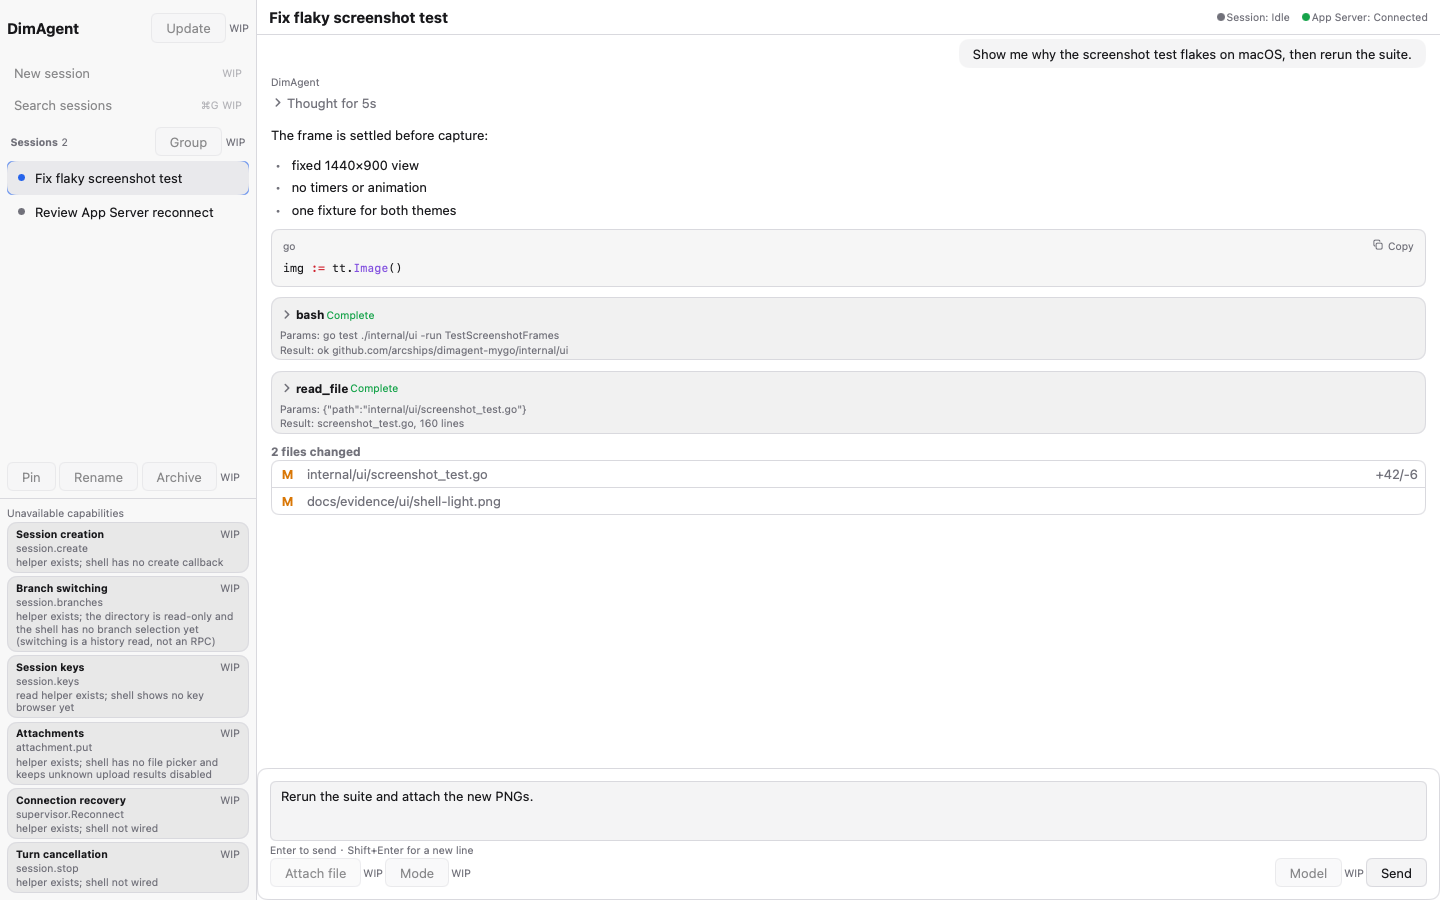
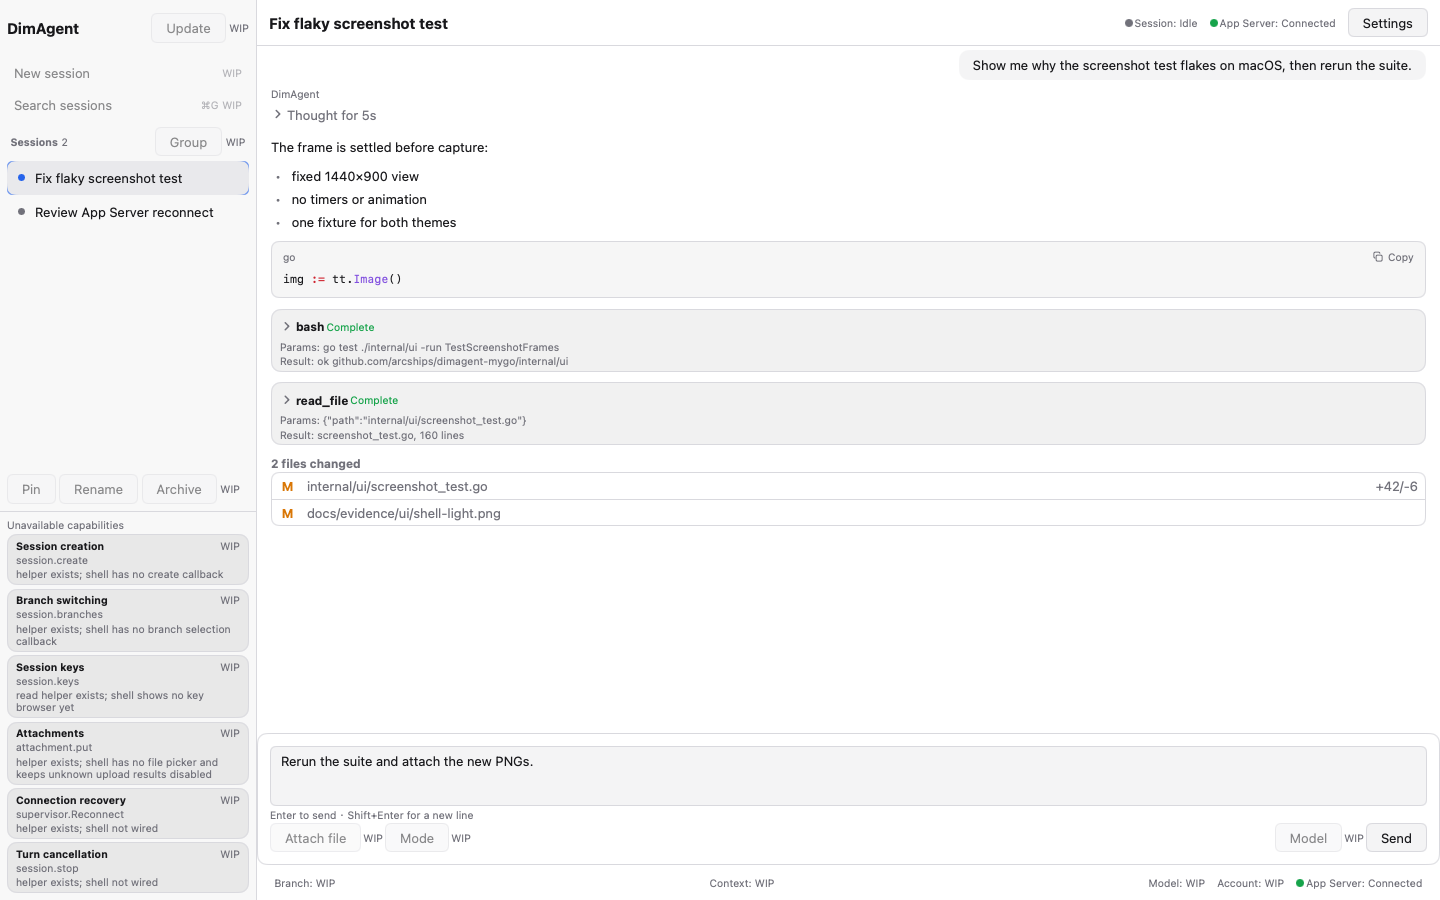
feat(ui): wire branch selection, settings and status bar

diff --git a/internal/ui/shell.go b/internal/ui/shell.go
@@ -260,12 +260,28 @@ type State struct {
 	// here. It lives as long as the window; a fold left behind by a row that left
 	// the timeline stays as one unused entry and is never re-keyed.
 	folds blockFolds
+	// ShowSettings is the window's own record that the appearance surface is
+	// showing instead of the conversation. It is display state only.
+	ShowSettings bool
+	// Settings holds the desktop-local appearance preferences the surface
+	// reports. They are the desktop's, not a session's: nothing here is sent to
+	// the App Server or stored as a session fact.
+	Settings SettingsView
 }
 
 // View builds one frame of the AppFrame: sidebar, toolbar, banner, conversation
 // and composer. It only assembles each region's view and the Actions, then
 // calls the region's render entry; it draws no region itself.
 func (s *State) View(c *ui.Context) {
+	// The appearance preference forces a theme when it is light or dark; system
+	// leaves the window's own appearance alone. The tokens are then read from the
+	// theme in force, so a forced theme carries through every region.
+	switch s.Settings.Theme {
+	case ThemeLight:
+		c.SetTheme(ui.LightTheme())
+	case ThemeDark:
+		c.SetTheme(ui.DarkTheme())
+	}
 	k := newTokens(c.Theme())
 	// The divider writes the width it drags to; the shell keeps the sidebar
 	// inside its own bounds before every frame, so a drag can never take the
@@ -278,20 +294,56 @@ func (s *State) View(c *ui.Context) {
 	}, func() {
 		ui.Column(c).FillHeight().Children(func() {
 			renderHeader(c, k, s.headerView(), a)
-			renderTimeline(c, k, s.timelineView(), a)
-			// A pending approval takes the composer's slot: the user answers the
-			// request before typing again, as the spec's composer replacement does.
-			// The request set comes from the rows the projection produced, never from
-			// a click.
-			if pending := s.pendingApprovals(); len(pending) > 0 {
-				renderApprovalPanel(c, k, ApprovalView{Pending: pending}, a)
+			if s.ShowSettings {
+				// The appearance surface takes the conversation's place; the
+				// sidebar, toolbar and status bar stay, so a preference change is
+				// visible around it.
+				renderSettings(c, k, s.Settings, s.applySettings)
 			} else {
-				renderComposer(c, k, composer, a)
+				renderTimeline(c, k, s.timelineView(), a)
+				// A pending approval takes the composer's slot: the user answers the
+				// request before typing again, as the spec's composer replacement does.
+				// The request set comes from the rows the projection produced, never from
+				// a click.
+				if pending := s.pendingApprovals(); len(pending) > 0 {
+					renderApprovalPanel(c, k, ApprovalView{Pending: pending}, a)
+				} else {
+					renderComposer(c, k, composer, a)
+				}
 			}
+			renderStatusBar(c, k, s.statusBarView())
 		})
 	}).SplitReset(k.sidebarW).Fill()
 	if c.Shortcut(ComposerShortcutMods, ComposerShortcutKey) {
 		composer.Focus.Focus()
+	}
+}
+
+// applySettings stores the appearance snapshot the surface reported and applies
+// the parts this shell can: the forced theme (read on the next frame) and the
+// sidebar width. Font size, family, density and code size are kept for the
+// caller to persist; the shell does not yet re-theme its type scale from them.
+func (s *State) applySettings(change SettingsChange) {
+	s.Settings = SettingsView{
+		Theme:        change.Theme,
+		FontSize:     change.FontSize,
+		FontFamily:   change.FontFamily,
+		SidebarWidth: change.SidebarWidth,
+		Density:      change.Density,
+		CodeFontSize: change.CodeFontSize,
+	}
+	if change.SidebarWidth > 0 {
+		s.SidebarWidth = change.SidebarWidth
+	}
+}
+
+// statusBarView copies the readings the bottom bar shows. Only the branch name
+// and the connection are known today; context usage, model and account stay
+// empty, which the bar draws as WIP instead of inventing numbers.
+func (s *State) statusBarView() StatusBarView {
+	return StatusBarView{
+		Branch:     s.SelectedBranch,
+		Connection: s.Connection,
 	}
 }
 
@@ -306,6 +358,9 @@ func (s *State) actions() Actions {
 		OnStop:          s.OnStop,
 		OnReconnect:     s.OnReconnect,
 		OnApproval:      s.OnApproval,
+		// The settings toggle is the shell's own state, not a caller callback, so
+		// it is always wired.
+		OnOpenSettings: func() { s.ShowSettings = !s.ShowSettings },
 	}
 }
 
@@ -362,6 +417,7 @@ func (s *State) headerView() HeaderView {
 		ActionError:     s.ActionError,
 		ActionStatus:    s.ActionStatus,
 		Loading:         s.ConversationLoading,
+		SettingsOpen:    s.ShowSettings,
 	}
 }
 

diff --git a/internal/ui/screenshot_test.go b/internal/ui/screenshot_test.go
@@ -125,7 +125,15 @@ func screenshotFixture(withApproval bool) *State {
 	return s
 }
 
-// screenshotFrames renders both evidence states in both appearances: the
+// screenshotSettingsFixture is the appearance surface on the same catalog, so the
+// settings frame differs from the conversation frame in the main column only.
+func screenshotSettingsFixture() *State {
+	s := screenshotFixture(false)
+	s.ShowSettings = true
+	return s
+}
+
+// screenshotFrames renders the evidence states in both appearances: the
 // approval state (a pending request takes the composer's slot) and the composer
 // state (no pending request, the draft field is visible). Every tester is
 // separate, so a click or a draft edit in one cannot leak into another.
@@ -137,11 +145,16 @@ func screenshotFrames(t *testing.T) map[string]*ui.Tester {
 	lightComposer := ui.NewTester(screenshotFixture(false).View, screenshotWidth, screenshotHeight)
 	darkComposer := ui.NewTester(screenshotFixture(false).View, screenshotWidth, screenshotHeight)
 	darkComposer.SetDark(true)
+	lightSettings := ui.NewTester(screenshotSettingsFixture().View, screenshotWidth, screenshotHeight)
+	darkSettings := ui.NewTester(screenshotSettingsFixture().View, screenshotWidth, screenshotHeight)
+	darkSettings.SetDark(true)
 	return map[string]*ui.Tester{
 		"light":          light,
 		"dark":           dark,
 		"light-composer": lightComposer,
 		"dark-composer":  darkComposer,
+		"light-settings": lightSettings,
+		"dark-settings":  darkSettings,
 	}
 }
 
@@ -166,7 +179,7 @@ func imageHasContent(img *image.RGBA) bool {
 // docs/evidence/ui README points at; otherwise it touches no file.
 func TestScreenshotFrames(t *testing.T) {
 	frames := screenshotFrames(t)
-	names := []string{"light", "dark", "light-composer", "dark-composer"}
+	names := []string{"light", "dark", "light-composer", "dark-composer", "light-settings", "dark-settings"}
 	for _, name := range names {
 		tt := frames[name]
 		img := tt.Image()
@@ -182,7 +195,7 @@ func TestScreenshotFrames(t *testing.T) {
 		}
 	}
 
-	for _, pair := range [][2]string{{"light", "dark"}, {"light-composer", "dark-composer"}} {
+	for _, pair := range [][2]string{{"light", "dark"}, {"light-composer", "dark-composer"}, {"light-settings", "dark-settings"}} {
 		if bytes.Equal(frames[pair[0]].Image().Pix, frames[pair[1]].Image().Pix) {
 			t.Errorf("%s and %s frames are pixel-identical", pair[0], pair[1])
 		}
@@ -203,6 +216,8 @@ func TestScreenshotFrames(t *testing.T) {
 		"dark":           "shell-dark.png",
 		"light-composer": "shell-light-composer.png",
 		"dark-composer":  "shell-dark-composer.png",
+		"light-settings": "shell-light-settings.png",
+		"dark-settings":  "shell-dark-settings.png",
 	}
 	for _, name := range names {
 		path := filepath.Join(dir, files[name])

diff --git a/internal/ui/capability.go b/internal/ui/capability.go
@@ -28,16 +28,19 @@ type wipCapability struct {
 // cancellation once State.OnStop is set and approval decisions once
 // State.OnApproval is set, so each is unavailable only while its callback is
 // missing. session.branches and session.keys have read helpers; switching a
-// branch has no dedicated RPC (it is a history read for that branchId) and this
-// shell has no branch selection or key browser yet, so both stay read-only.
+// branch reads that branch's history and is wired once State.OnSelectBranch is
+// set, while the shell still has no key browser.
 func wipCapabilities(s *State) []wipCapability {
 	capabilities := make([]wipCapability, 0, 7)
 	if s == nil || s.OnCreateSession == nil {
 		capabilities = append(capabilities,
 			wipCapability{"Session creation", "session.create", "helper exists; shell has no create callback"})
 	}
+	if s == nil || s.OnSelectBranch == nil {
+		capabilities = append(capabilities,
+			wipCapability{"Branch switching", "session.branches", "helper exists; shell has no branch selection callback"})
+	}
 	capabilities = append(capabilities,
-		wipCapability{"Branch switching", "session.branches", "helper exists; the directory is read-only and the shell has no branch selection yet (switching is a history read, not an RPC)"},
 		wipCapability{"Session keys", "session.keys", "read helper exists; shell shows no key browser yet"},
 	)
 	if s == nil || s.OnApproval == nil {

diff --git a/internal/ui/capability_test.go b/internal/ui/capability_test.go
@@ -72,9 +72,9 @@ func TestCapabilityCardsReportTheActualGap(t *testing.T) {
 		t.Errorf("attachments reports %q, want the missing file picker and unknown results", gap)
 	}
 	// The branch and key reads are wired: their cards must name the real gap
-	// (read-only display, no switch RPC or key browser), not a missing helper.
-	if gap := cards["Branch switching"].gap; !strings.Contains(gap, "read-only") {
-		t.Errorf("branch switching reports %q, want the read-only gap", gap)
+	// (no branch-selection callback, no key browser), not a missing helper.
+	if gap := cards["Branch switching"].gap; !strings.Contains(gap, "branch selection callback") {
+		t.Errorf("branch switching reports %q, want the missing selection callback", gap)
 	}
 	if gap := cards["Session keys"].gap; !strings.Contains(gap, "key browser") {
 		t.Errorf("session keys reports %q, want the missing key browser", gap)
@@ -276,7 +276,7 @@ func TestCapabilityCardsDoNotChangeState(t *testing.T) {
 	before := s.Selected
 	for _, want := range []string{
 		"Update", "New session", "Search sessions", "Group", "Sessions",
-		"Pin", "Rename", "Archive", "Divider", "Reconnect", "Attach file", "Composer",
+		"Pin", "Rename", "Archive", "Divider", "Reconnect", "Settings", "Attach file", "Composer",
 	} {
 		tt.Key(0, ui.KeyTab)
 		if !tt.Focused(want) {

diff --git a/internal/ui/protocols.go b/internal/ui/protocols.go
@@ -82,6 +82,11 @@ type Actions struct {
 	// row; the region never removes the row or claims an outcome on its own,
 	// and a row without a request identity never reaches this field.
 	OnApproval func(branchID, requestID string, decision ApprovalDecision)
+	// OnOpenSettings is called by the toolbar's Settings entry and toggles the
+	// appearance surface. The preferences it edits are desktop-local: the caller
+	// applies the theme and the sidebar width and persists what it can; nothing
+	// here reaches the App Server. While this field is nil the entry is absent.
+	OnOpenSettings func()
 }
 
 // SidebarView is what the sidebar region draws: the session catalog, the
@@ -176,6 +181,9 @@ type HeaderView struct {
 	// loading. It hides the reconnect entry so one attempt cannot be started
 	// twice; it never stands in for history.
 	Loading bool
+	// SettingsOpen is the window's record that the appearance surface is
+	// showing. The toolbar's entry reads "Settings" or "Conversation" from it.
+	SettingsOpen bool
 }
 
 // TimelineView is what the timeline region draws: the conversation rows, the

diff --git a/internal/ui/conversation_test.go b/internal/ui/conversation_test.go
@@ -84,8 +84,14 @@ func TestConversationFollowsAppend(t *testing.T) {
 		t.Fatalf("appended row is not visible, texts %q", tt.Texts())
 	}
 
-	// Scrolling up, in the conversation's area, leaves the end.
-	tt.Scroll(320, 150, 0, -300)
+	// Scrolling up, in the conversation's area, leaves the end. The list's own
+	// rect is used so the point stays inside it whatever the other rows take
+	// (the status bar changed the available height).
+	rect, ok := tt.Find("Conversation")
+	if !ok {
+		t.Fatalf("conversation list is not drawn, texts %q", tt.Texts())
+	}
+	tt.Scroll(rect.X+rect.W/2, rect.Y+rect.H/2, 0, -300)
 	if s.conversation.AtEnd() {
 		t.Fatalf("the list still shows its end after scrolling away from it")
 	}
@@ -100,7 +106,7 @@ func TestConversationFollowsAppend(t *testing.T) {
 	}
 
 	// Scrolling back to the end follows it again.
-	tt.Scroll(320, 150, 0, 3000)
+	tt.Scroll(rect.X+rect.W/2, rect.Y+rect.H/2, 0, 3000)
 	if !s.conversation.AtEnd() {
 		first, last := s.conversation.Visible()
 		t.Fatalf("the list does not follow its end again: visible=%d..%d", first, last)

diff --git a/internal/ui/header.go b/internal/ui/header.go
@@ -40,6 +40,15 @@ func header(c *ui.Context, k tokens, v HeaderView, a Actions) {
 				ui.Button(c, "Reconnect").OnClick(a.OnReconnect)
 			}
 		}
+		// The appearance surface is one toggle away from the conversation; its
+		// label says where the entry goes, so the same button always returns.
+		if a.OnOpenSettings != nil {
+			label := "Settings"
+			if v.SettingsOpen {
+				label = "Conversation"
+			}
+			ui.Button(c, label).OnClick(a.OnOpenSettings)
+		}
 	})
 	banner(c, k, v)
 }

diff --git a/internal/ui/keyboard_test.go b/internal/ui/keyboard_test.go
@@ -57,7 +57,7 @@ func TestTabOrder(t *testing.T) {
 
 	for _, want := range []string{
 		"Update", "New session", "Search sessions", "Group", "Sessions",
-		"Pin", "Rename", "Archive", "Divider", "Reconnect", "Attach file",
+		"Pin", "Rename", "Archive", "Divider", "Reconnect", "Settings", "Attach file",
 		"Composer", "Update",
 	} {
 		tt.Key(0, ui.KeyTab)

diff --git a/internal/ui/composer_p0_test.go b/internal/ui/composer_p0_test.go
@@ -216,7 +216,7 @@ func TestComposerTabOrder(t *testing.T) {
 
 	for _, want := range []string{
 		"Update", "New session", "Search sessions", "Group", "Sessions",
-		"Pin", "Rename", "Archive", "Divider", "Reconnect",
+		"Pin", "Rename", "Archive", "Divider", "Reconnect", "Settings",
 	} {
 		tt.Key(0, ui.KeyTab)
 		if !tt.Focused(want) {
